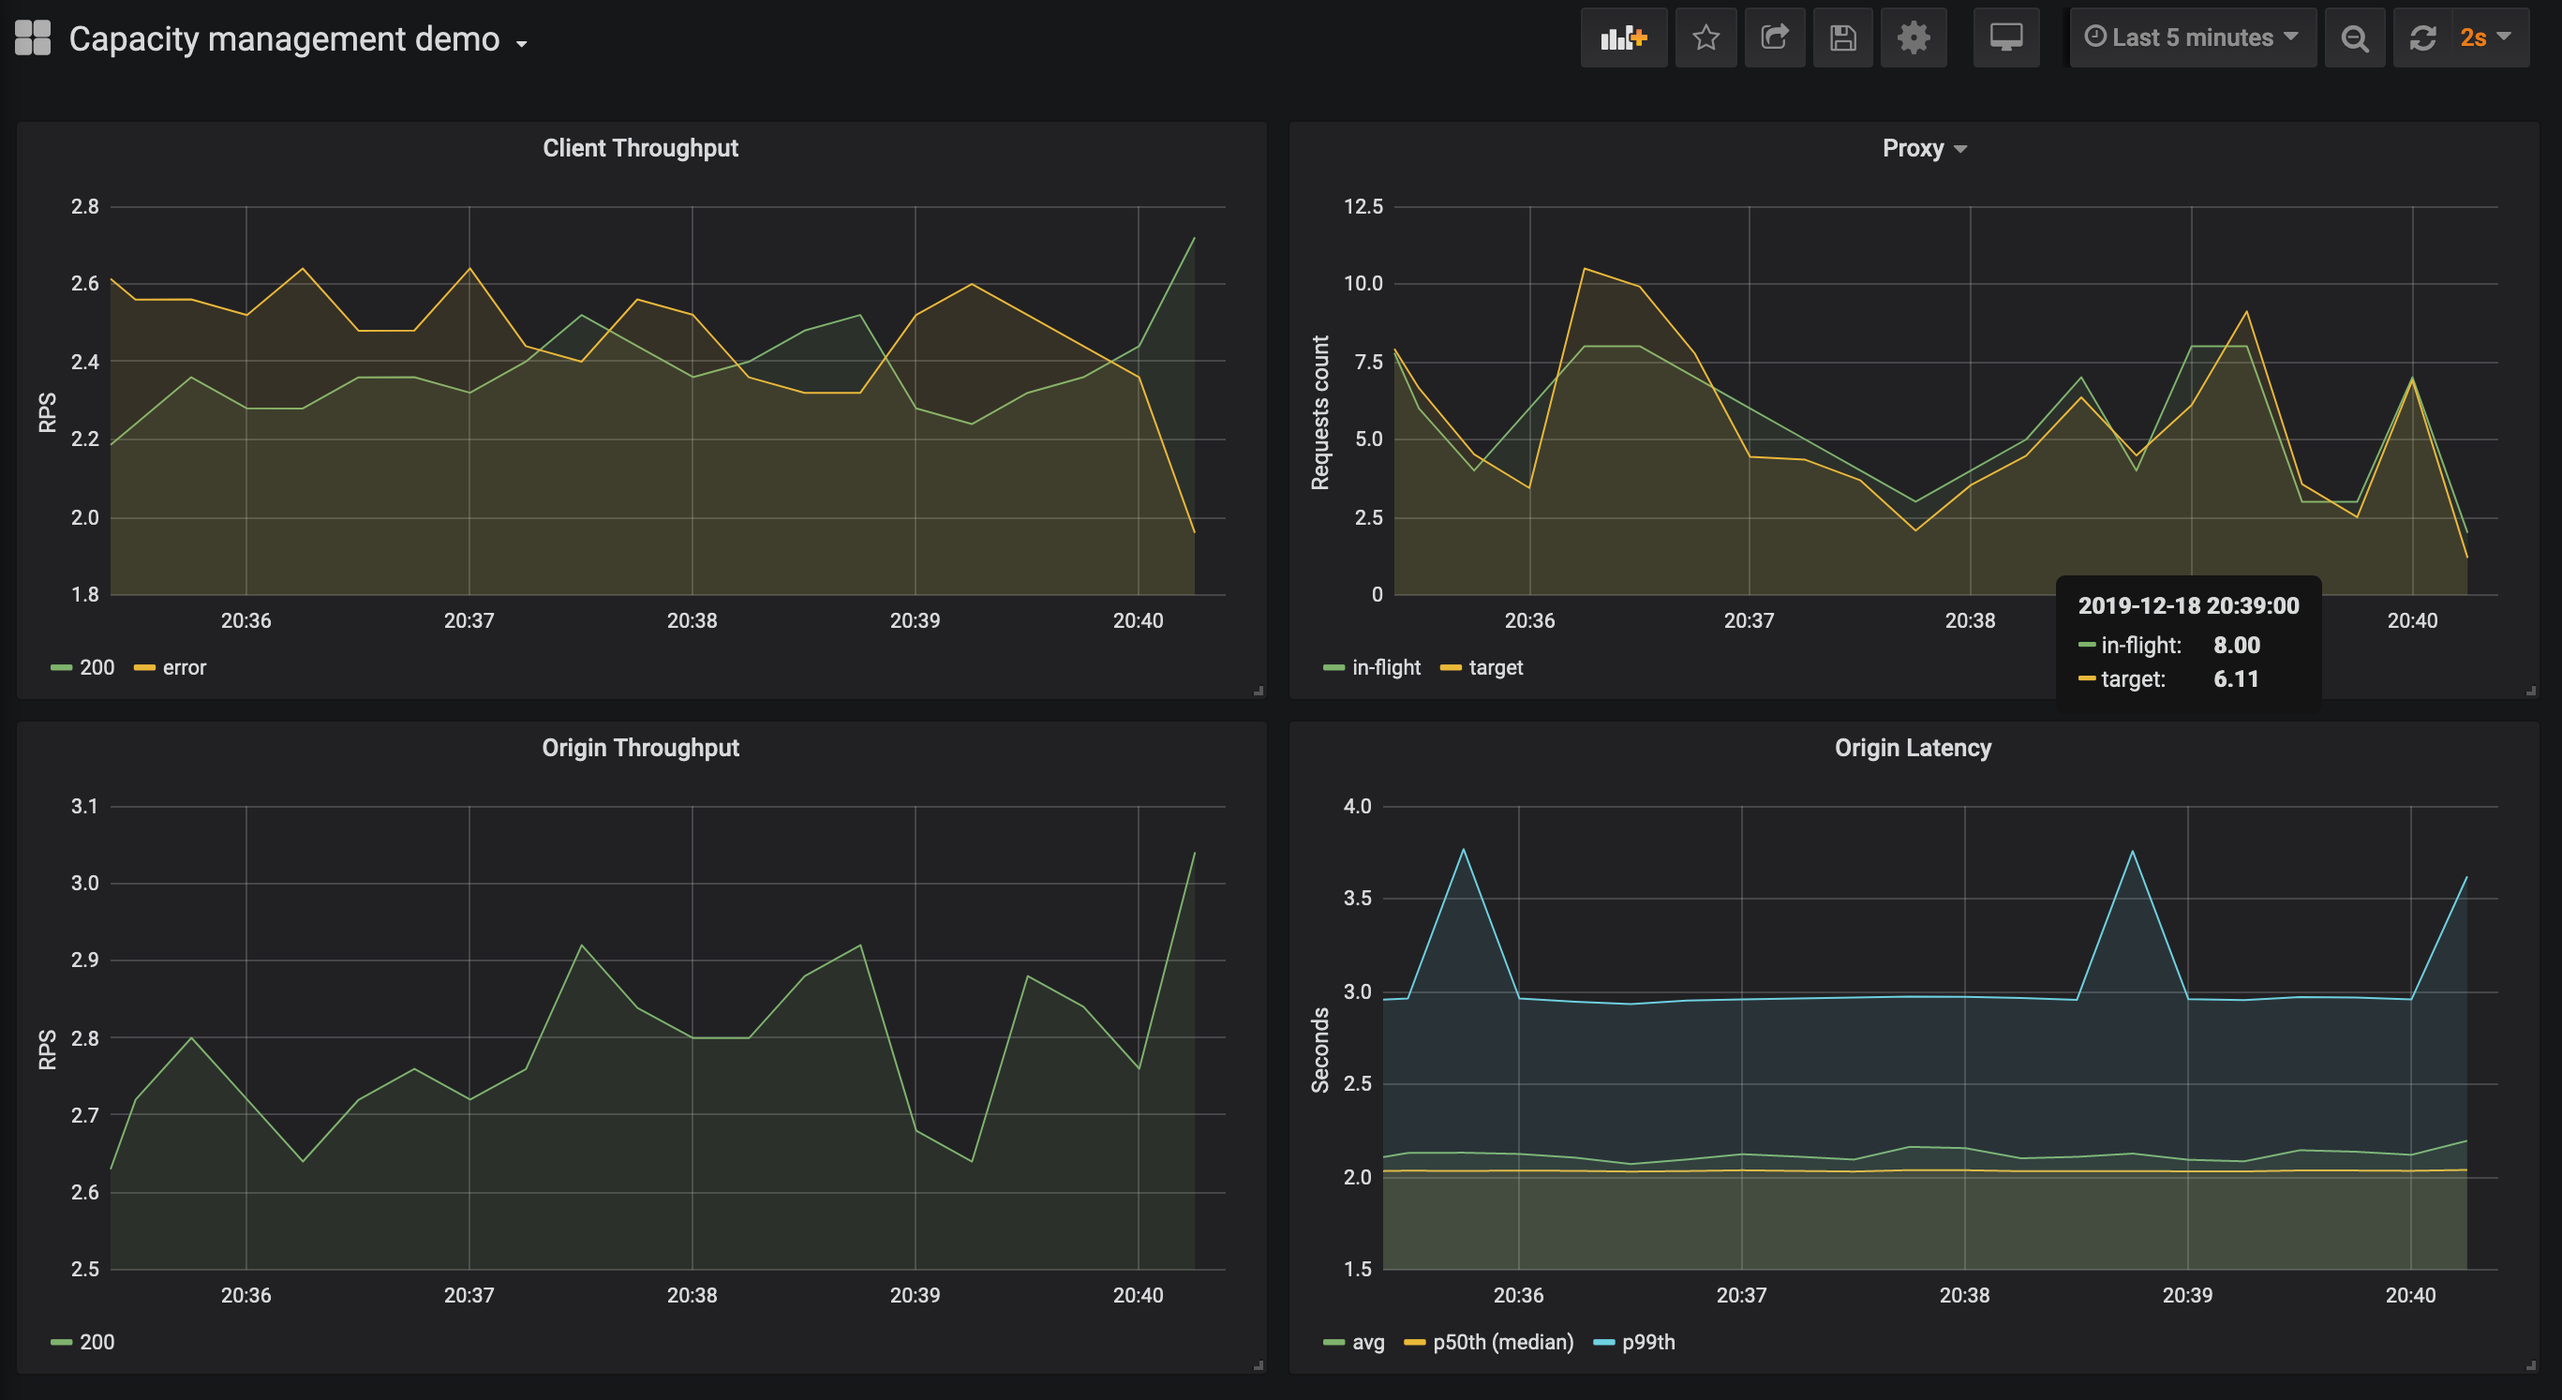
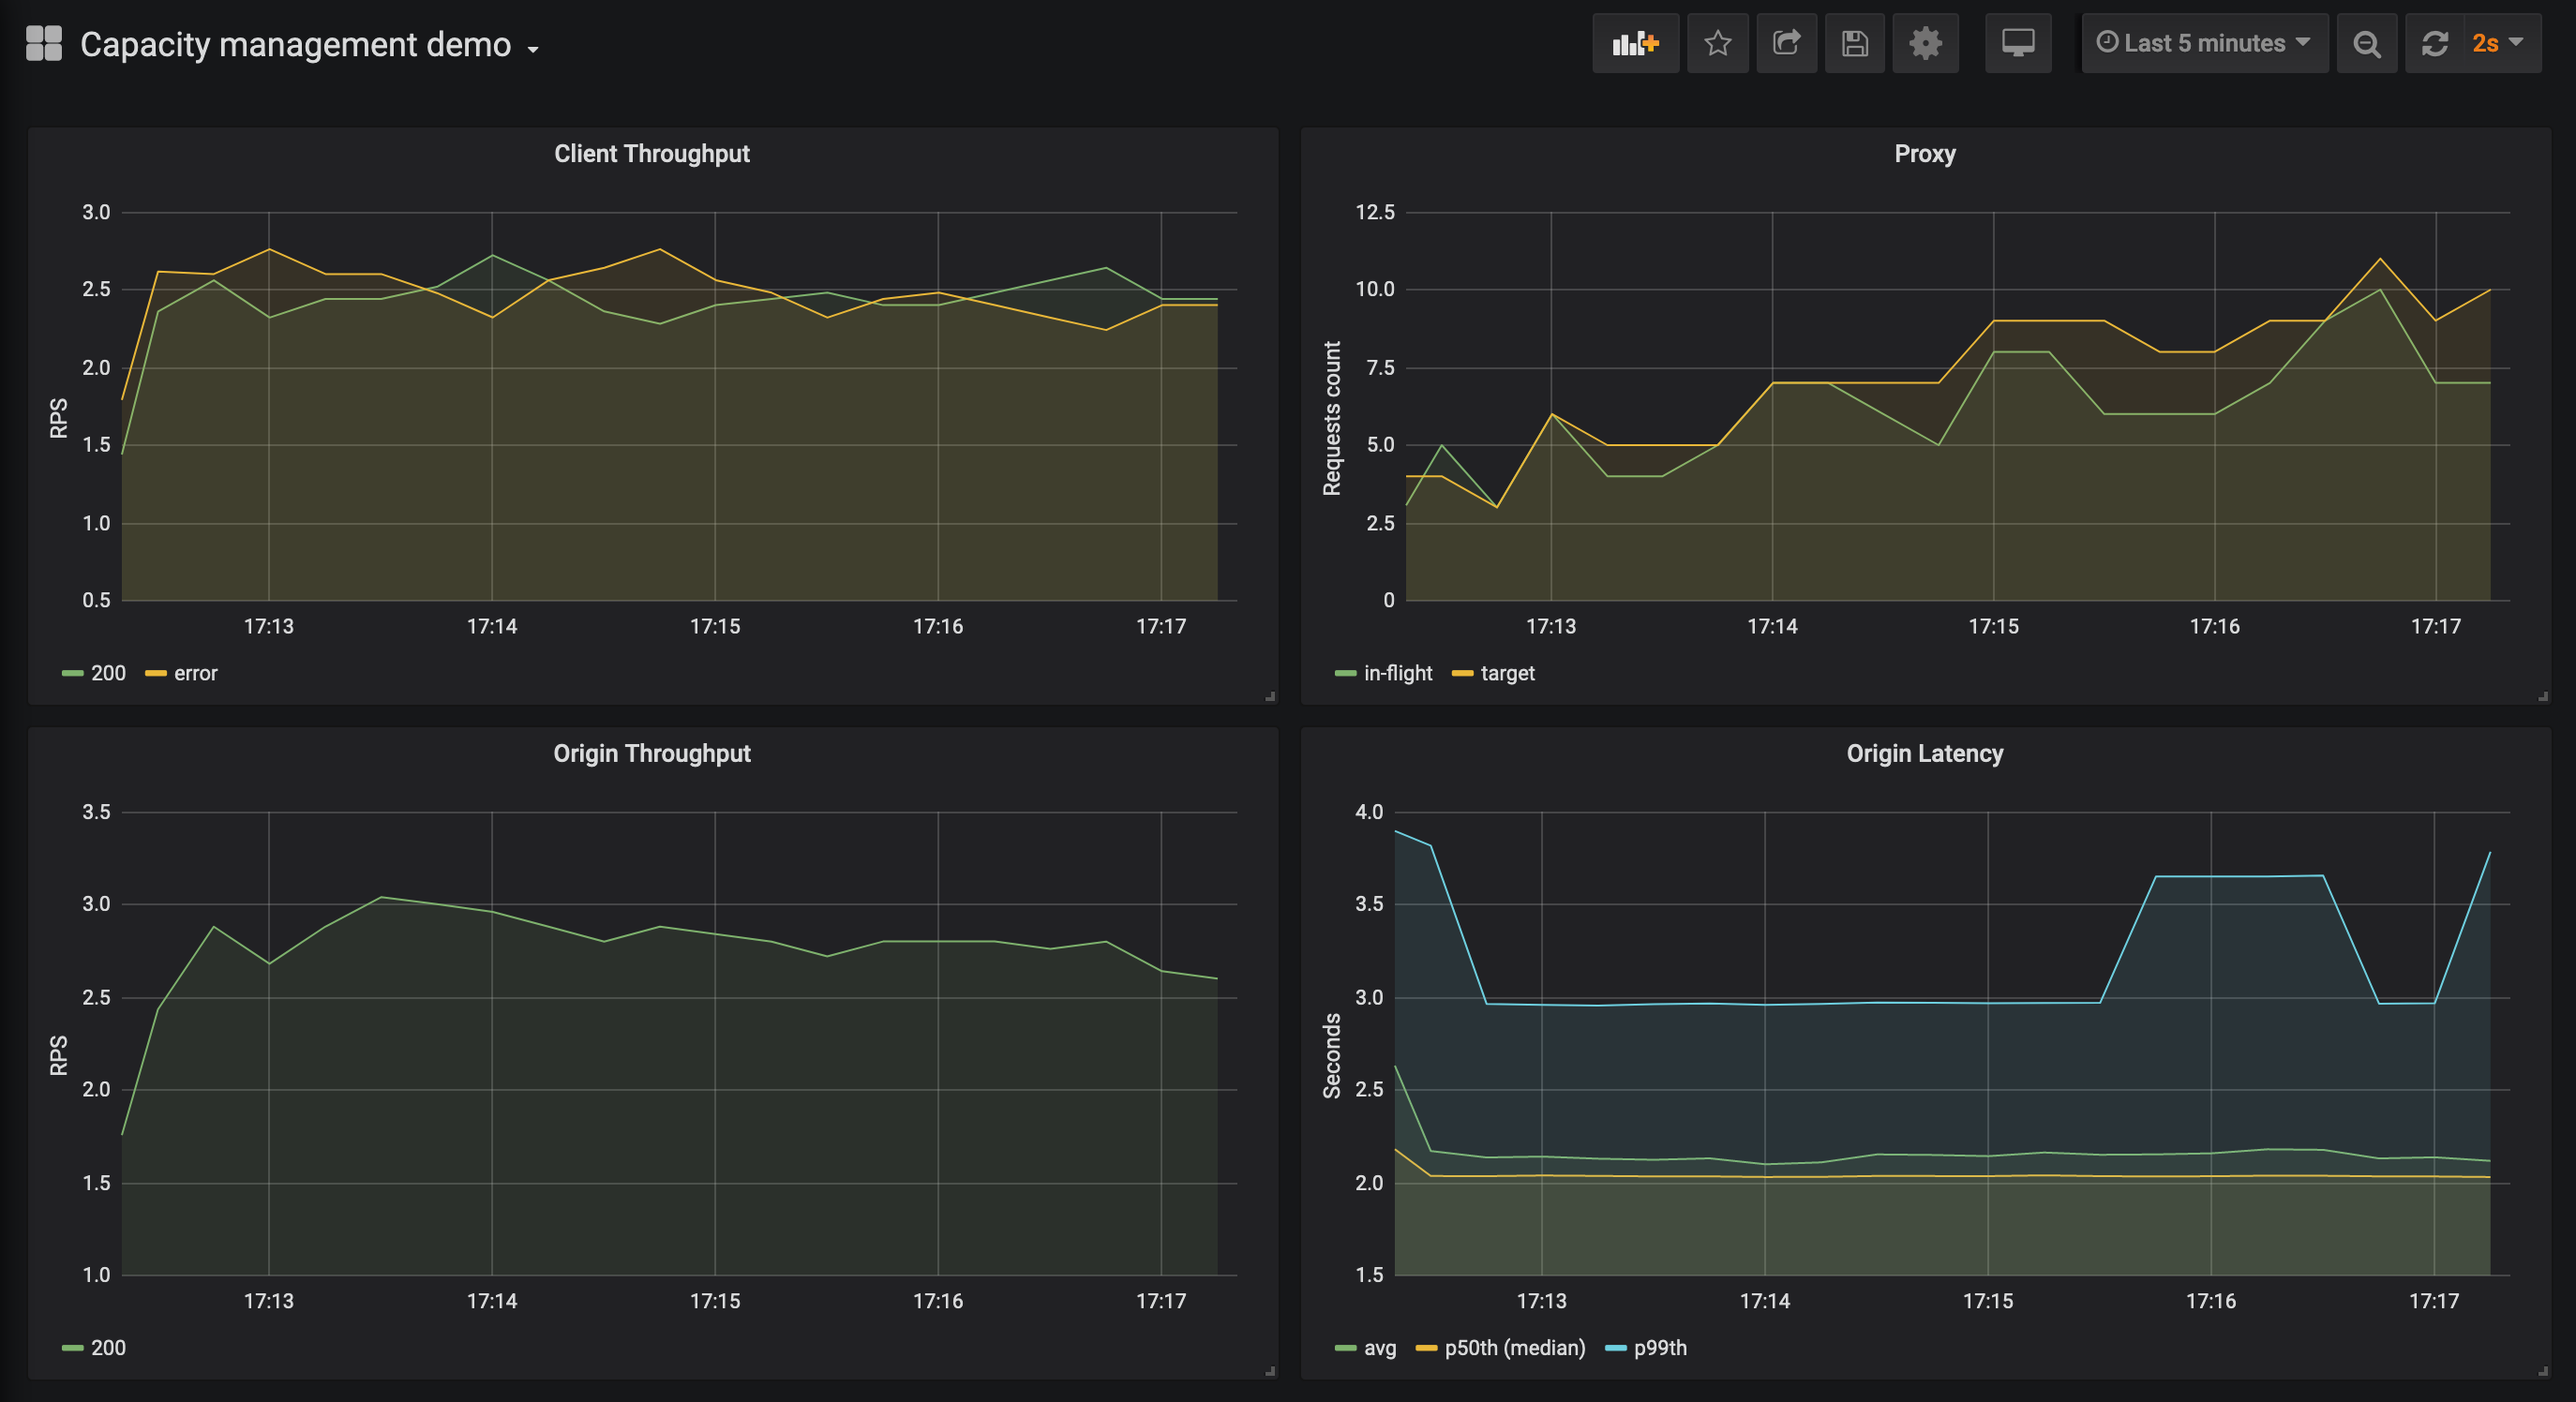
Update chart of adaptive in-flight requests quota

diff --git a/README.md b/README.md
@@ -239,11 +239,11 @@ $ ORIGIN_WORKTIME=2s CLIENT_ORIGIN=http://proxy:7000 PROXY_ADAPTIVE=true docker-
 
 Observations:
 
-- client sends 5 requests per second and receives between 2.2 rps and 2.5 rps (HTTP 200)
-- proxy wildly oscillates between 4 and 8 in-flight requests
-- origin processes between 2.6 and 2.9 requests per second
-- origin has served requests with average latency 2 seconds
+- client sends 5 requests per second and receives between 2.4 rps and 2.7 rps (HTTP 200)
+- proxy oscillates between 4 and 6 in-flight requests
+- origin processes between 2.7 and 3 requests per second
+- origin has served requests with average latency 2.2 seconds
 - origin has served 50% of requests (50th percentile) within 2 seconds
-- origin has served 99% of requests (99th percentile) within 3 seconds
+- origin has served 99% of requests (99th percentile) within 3 seconds with periodic spikes
 
 ![Adaptive in-flight requests quota](images/adaptive-quota.png)
